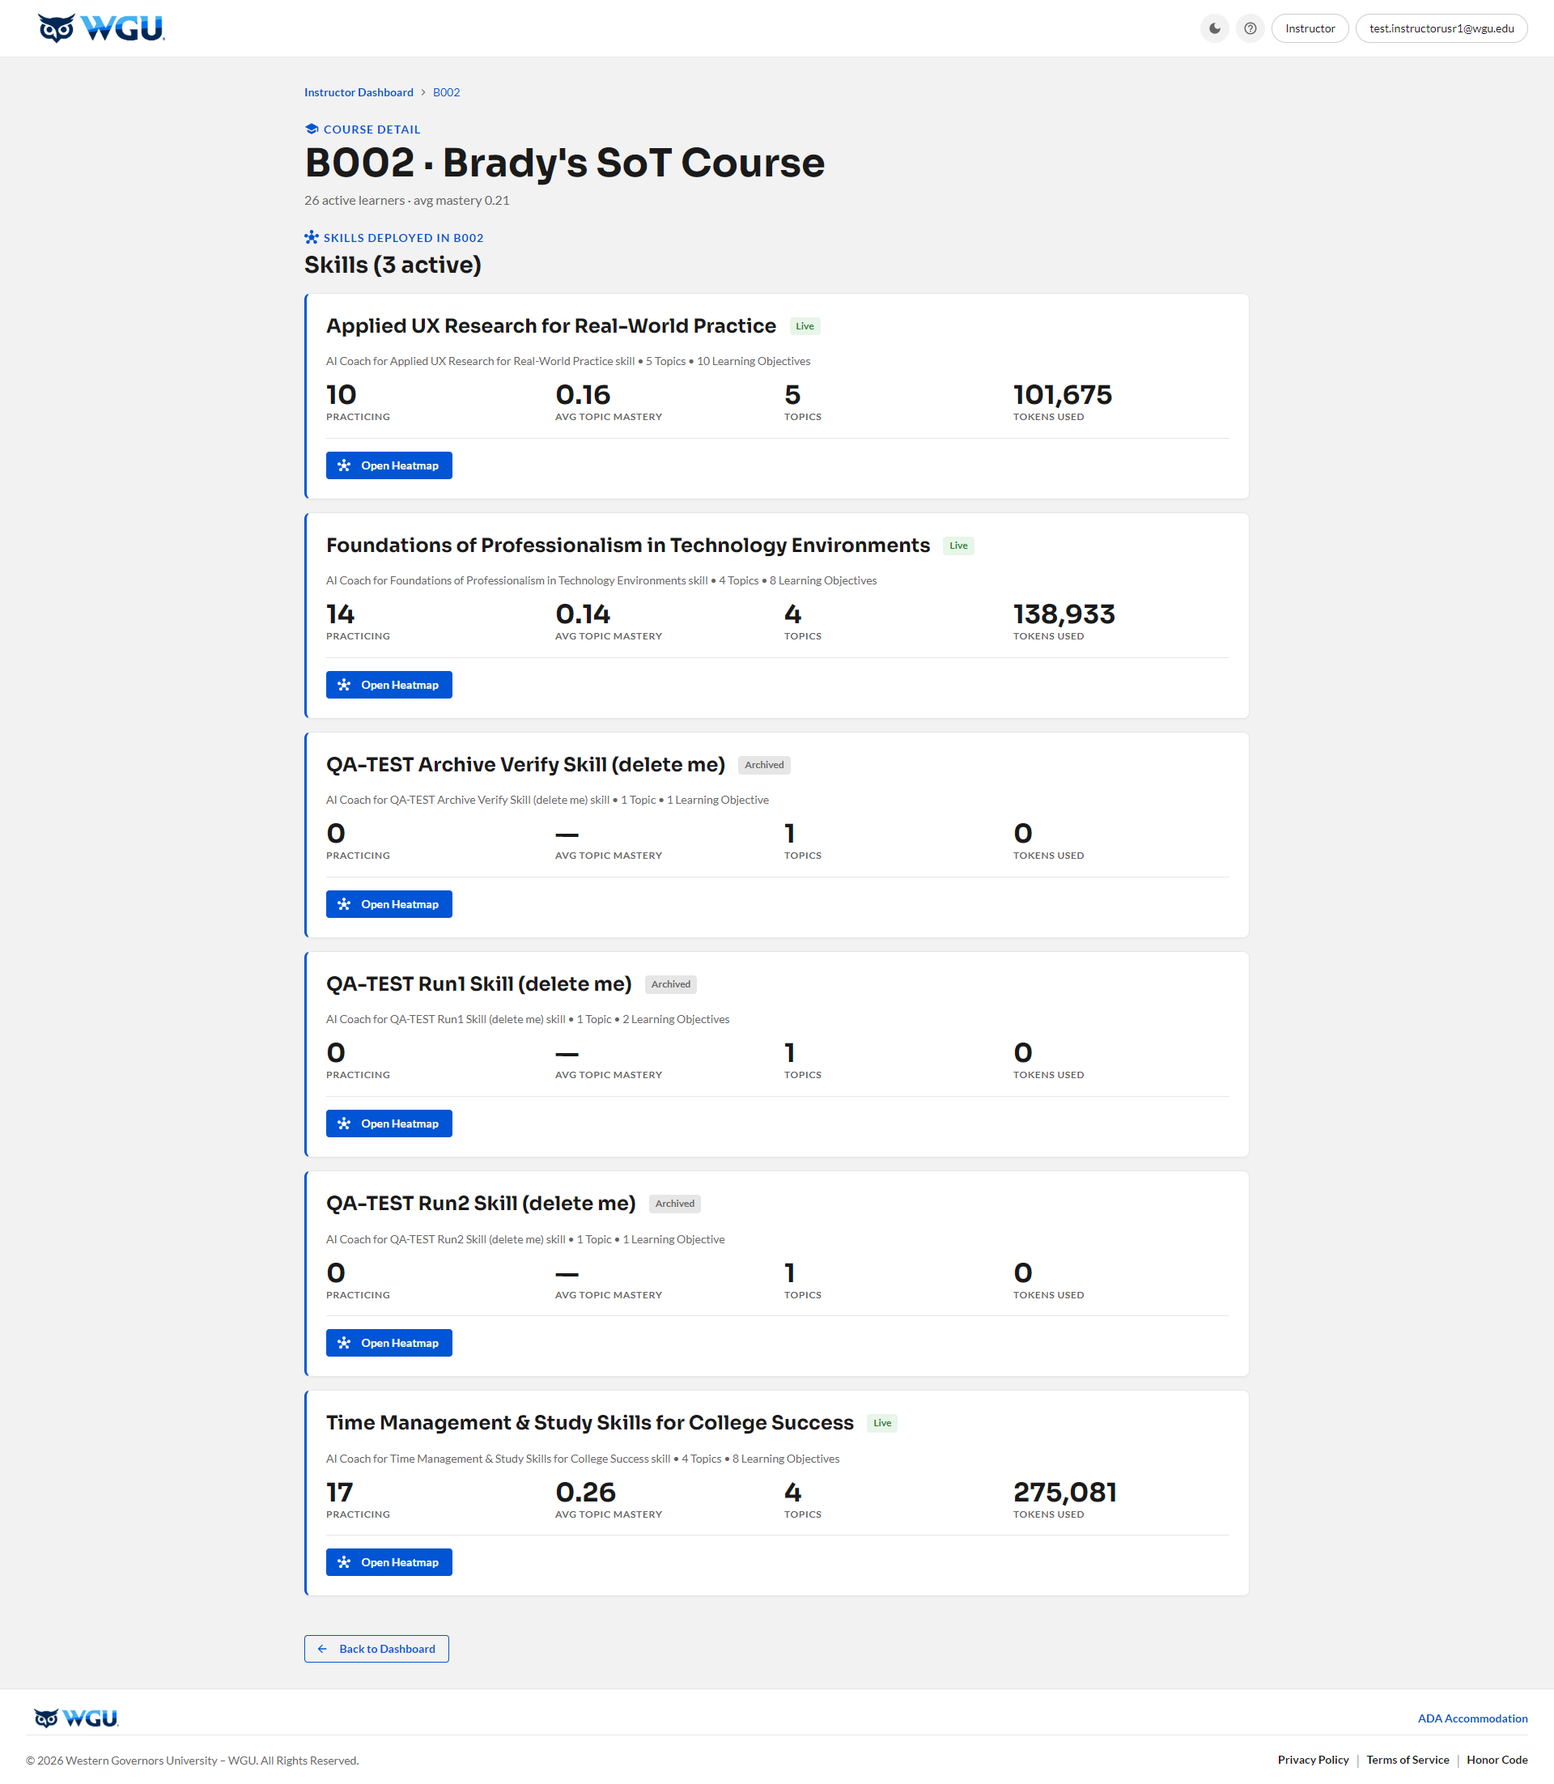
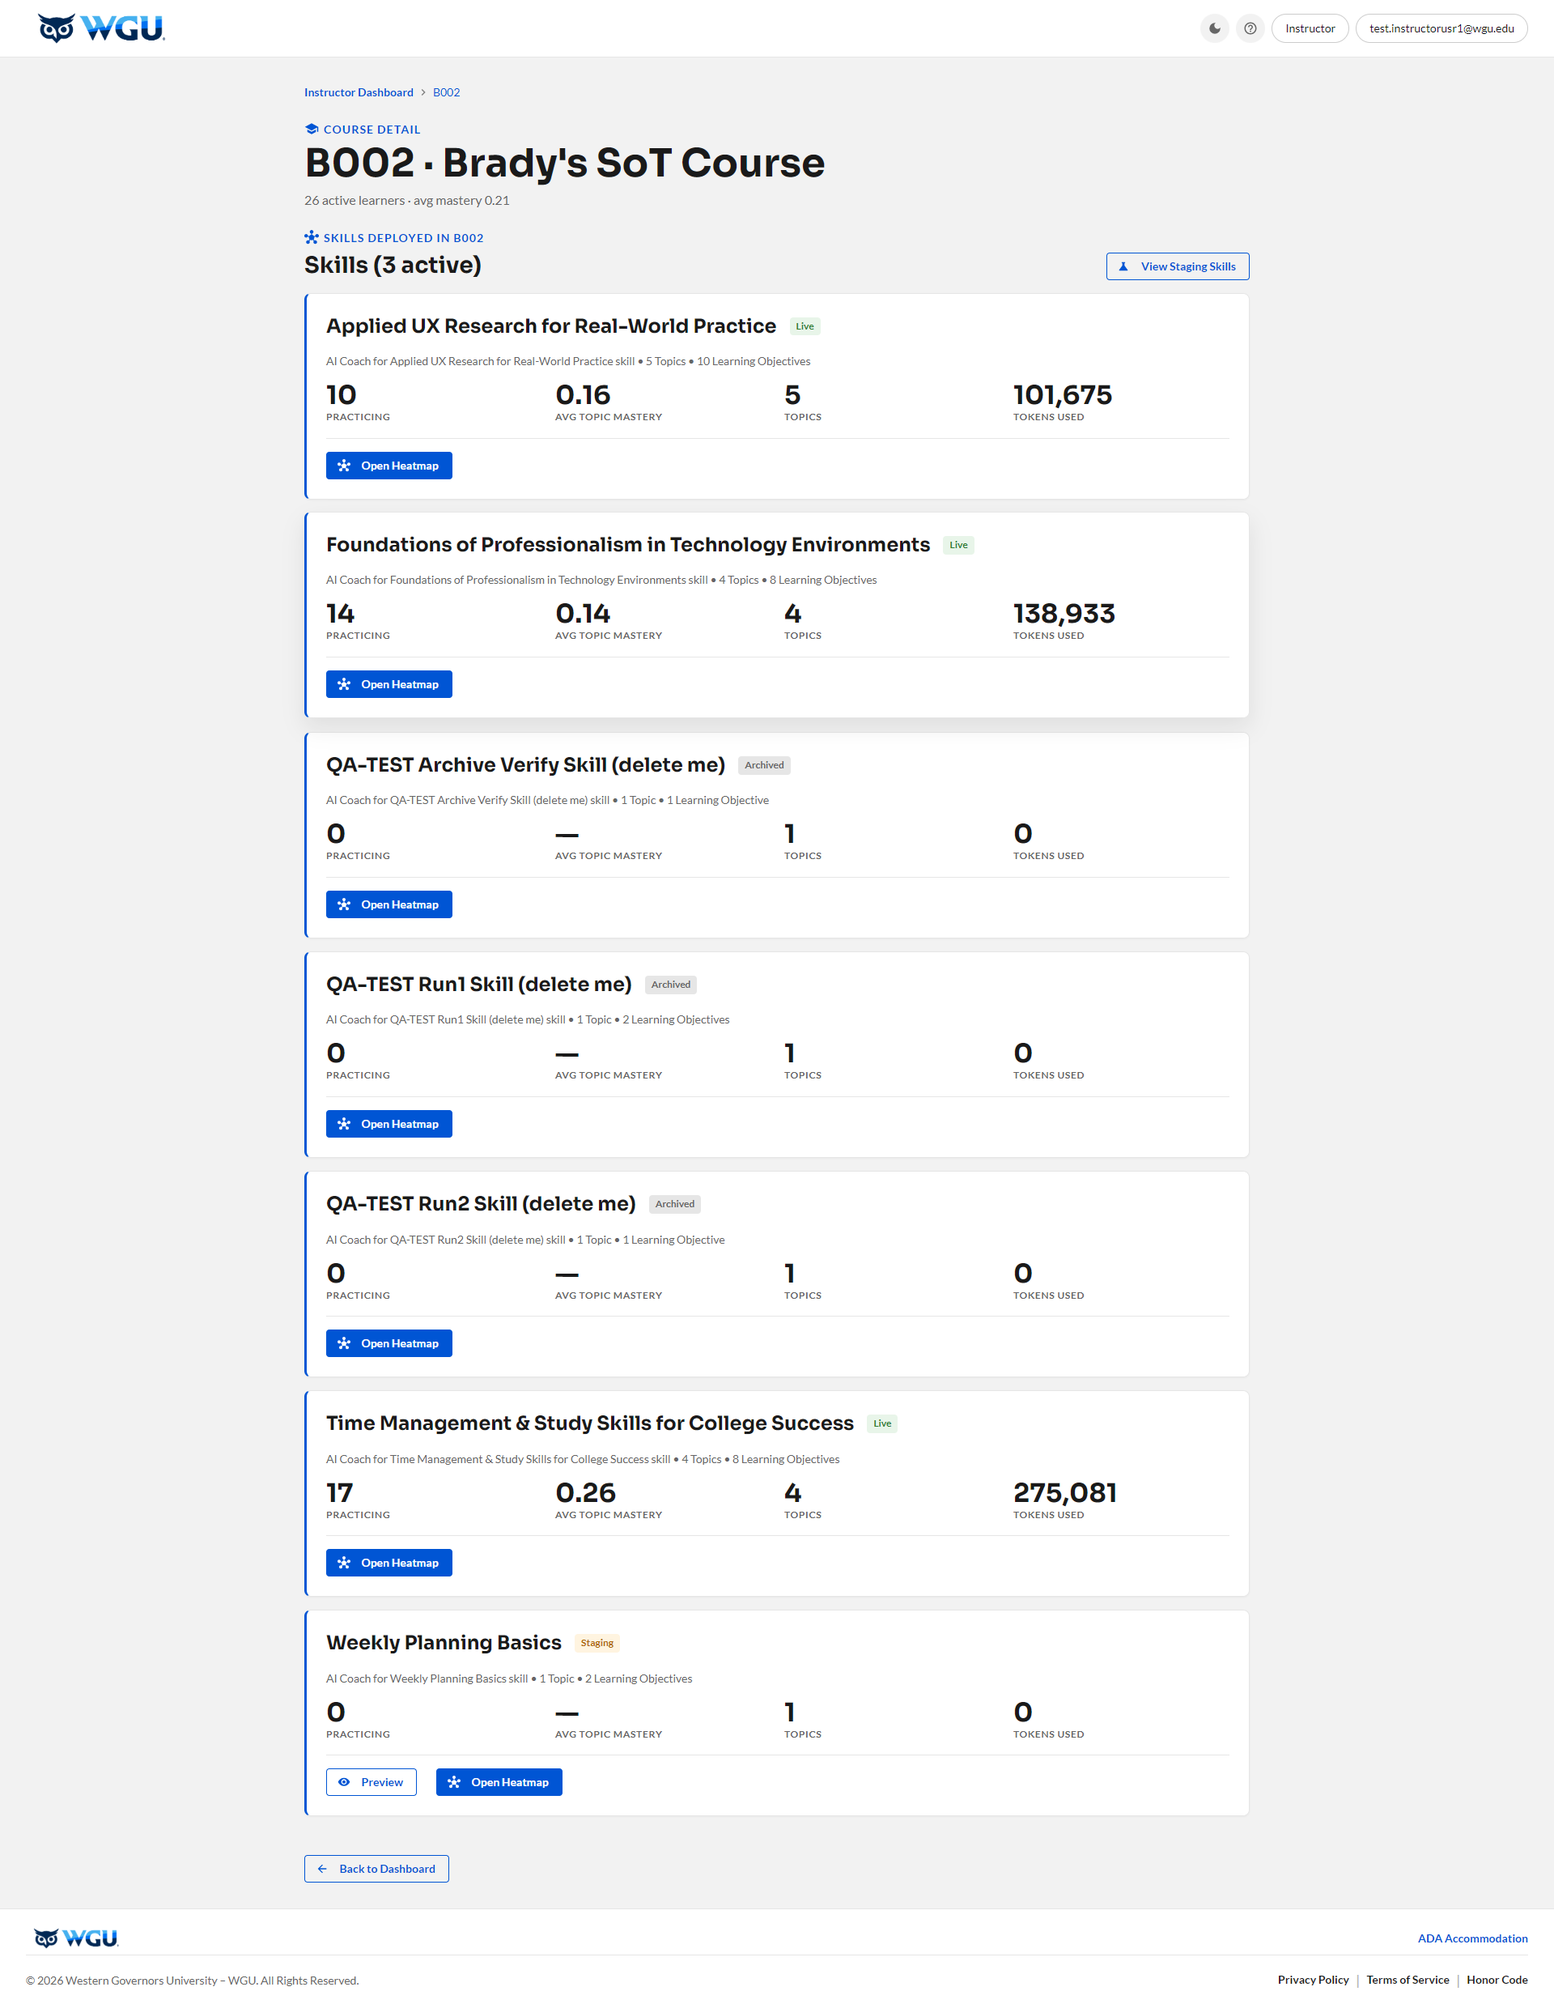
Add the Instructor Skill Preview AI loop
Created a staging Skill in B002 so the preview flow has something to show:
School Admin > New Skill wizard > Deploy to Staging -> "Weekly Planning Basics"
(STU101-PREV), skill 57769bc8-befa-403c-aa5a-a7463543f76d, 1 topic / 2 learning
objectives / gpt-4o-mini. Staging is deliberate -- students cannot launch a
staging Skill, and only staging Skills appear in the instructor Preview list.

Instructor is now 8 screens: + Staging Skills list, + Skill Preview AI-generated
question, + Skill Preview AI evaluation. The evaluation grades against exactly
the two Learning Objectives typed into wizard step 2 (scored 0.0 and 1.0 with
per-objective feedback), which shows the authoring config actually reaching the
model. The screen also carries "Preview only -- no data is saved".

This completes the AI loop on all three sides: student assessment, student
coaching, and staff-side authoring preview. The 11 Aug site map had recorded this
grading step as unverified because the Claude-browser permission classifier
blocked the submit.

Screens 6-7 navigate straight to the preview URL instead of clicking through.
Resolving the click by the text "Preview" never reached the screen -- the page
heading is also "Preview skills before they go live" and there are three
identical Preview buttons -- while direct navigation renders in ~3s and
regenerates the question, since the preview persists nothing. Screen 5's hotspot
still points at the real Preview button, so the click-through story is intact.
[…]

diff --git a/instructor/index.html b/instructor/index.html
@@ -137,7 +137,7 @@
     <h2 id="s1-heading" class="screen-heading visually-hidden" tabindex="-1">Screen 1 — Dashboard — 4 courses, learners needing attention</h2>
     <div class="shot">
       <div class="shot-inner">
-        <img src="screenshots/screen-01.png?v=5" alt="Instructor: Dashboard — 4 courses, learners needing attention">
+        <img src="screenshots/screen-01.png?v=6" alt="Instructor: Dashboard — 4 courses, learners needing attention">
         <button class="hotspot" style="left:50.42%;top:15.77%;width:30%;height:13.74%;" aria-label="Open course B002" onclick="goToScreen(2)"></button>
       </div>
     </div>
@@ -146,9 +146,9 @@
     <h2 id="s2-heading" class="screen-heading visually-hidden" tabindex="-1">Screen 2 — Course detail — B002</h2>
     <div class="shot">
       <div class="shot-inner">
-        <img src="screenshots/screen-02.png?v=5" alt="Instructor: Course detail — B002">
-        <button class="hotspot" style="left:20.99%;top:86.81%;width:8.1%;height:1.54%;" aria-label="Open the STU101 skill heatmap" onclick="goToScreen(3)"></button>
-        <button class="hotspot" style="left:19.58%;top:91.66%;width:9.32%;height:1.54%;" aria-label="Back to Dashboard" onclick="goToScreen(1)"></button>
+        <img src="screenshots/screen-02.png?v=6" alt="Instructor: Course detail — B002">
+        <button class="hotspot" style="left:20.99%;top:77.3%;width:8.1%;height:1.37%;" aria-label="Open the STU101 skill heatmap" onclick="goToScreen(3)"></button>
+        <button class="hotspot" style="left:19.58%;top:92.58%;width:9.32%;height:1.37%;" aria-label="Back to Dashboard" onclick="goToScreen(1)"></button>
       </div>
     </div>
   </section>
@@ -156,7 +156,7 @@
     <h2 id="s3-heading" class="screen-heading visually-hidden" tabindex="-1">Screen 3 — Skill heatmap — STU101, 17 learners</h2>
     <div class="shot">
       <div class="shot-inner">
-        <img src="screenshots/screen-03.png?v=5" alt="Instructor: Skill heatmap — STU101, 17 learners">
+        <img src="screenshots/screen-03.png?v=6" alt="Instructor: Skill heatmap — STU101, 17 learners">
         <button class="hotspot" style="left:21.51%;top:35.65%;width:5.99%;height:1.93%;" aria-label="Open a learner profile" onclick="goToScreen(4)"></button>
         <button class="hotspot" style="left:19.58%;top:88.08%;width:9.75%;height:2.2%;" aria-label="Back to Course view" onclick="goToScreen(2)"></button>
       </div>
@@ -166,16 +166,44 @@
     <h2 id="s4-heading" class="screen-heading visually-hidden" tabindex="-1">Screen 4 — Learner profile — per-topic mastery</h2>
     <div class="shot">
       <div class="shot-inner">
-        <img src="screenshots/screen-04.png?v=5" alt="Instructor: Learner profile — per-topic mastery">
+        <img src="screenshots/screen-04.png?v=6" alt="Instructor: Learner profile — per-topic mastery">
         <button class="hotspot" style="left:71.67%;top:79.19%;width:8.75%;height:3.15%;" aria-label="Back to Heatmap" onclick="goToScreen(3)"></button>
       </div>
     </div>
   </section>
   <section class="screen" id="screen-5" aria-labelledby="s5-heading">
-    <h2 id="s5-heading" class="screen-heading visually-hidden" tabindex="-1">Screen 5 — Help &amp; Support</h2>
+    <h2 id="s5-heading" class="screen-heading visually-hidden" tabindex="-1">Screen 5 — Staging Skills — preview before go-live</h2>
     <div class="shot">
       <div class="shot-inner">
-        <img src="screenshots/screen-05.png?v=5" alt="Instructor: Help &amp; Support">
+        <img src="screenshots/screen-05.png?v=6" alt="Instructor: Staging Skills — preview before go-live">
+        <button class="hotspot" style="left:73.57%;top:30.58%;width:5.13%;height:4.07%;" aria-label="Preview the B002 staging Skill" onclick="goToScreen(6)"></button>
+        <button class="hotspot" style="left:19.58%;top:10.28%;width:7.42%;height:2.02%;" aria-label="Back to Dashboard" onclick="goToScreen(1)"></button>
+      </div>
+    </div>
+  </section>
+  <section class="screen" id="screen-6" aria-labelledby="s6-heading">
+    <h2 id="s6-heading" class="screen-heading visually-hidden" tabindex="-1">Screen 6 — Skill Preview — AI-generated question</h2>
+    <div class="shot">
+      <div class="shot-inner">
+        <img src="screenshots/screen-06.png?v=6" alt="Instructor: Skill Preview — AI-generated question">
+        <button class="hotspot" style="left:25%;top:71.31%;width:10.35%;height:3.7%;" aria-label="Submit the answer for AI evaluation" onclick="goToScreen(7)"></button>
+      </div>
+    </div>
+  </section>
+  <section class="screen" id="screen-7" aria-labelledby="s7-heading">
+    <h2 id="s7-heading" class="screen-heading visually-hidden" tabindex="-1">Screen 7 — Skill Preview — AI evaluation</h2>
+    <div class="shot">
+      <div class="shot-inner">
+        <img src="screenshots/screen-07.png?v=6" alt="Instructor: Skill Preview — AI evaluation">
+        <button class="hotspot" style="left:89.6%;top:88.02%;width:8.74%;height:2.33%;" aria-label="Finish the preview" onclick="goToScreen(5)"></button>
+      </div>
+    </div>
+  </section>
+  <section class="screen" id="screen-8" aria-labelledby="s8-heading">
+    <h2 id="s8-heading" class="screen-heading visually-hidden" tabindex="-1">Screen 8 — Help &amp; Support</h2>
+    <div class="shot">
+      <div class="shot-inner">
+        <img src="screenshots/screen-08.png?v=6" alt="Instructor: Help &amp; Support">
         <button class="hotspot" style="left:28.24%;top:83.62%;width:4.58%;height:3.19%;" aria-label="Back to Dashboard" onclick="goToScreen(1)"></button>
       </div>
     </div>
@@ -206,13 +234,16 @@
       <button class="step-btn" data-goto="2" role="tab" aria-current="false">02 Course detail — B002</button>
       <button class="step-btn" data-goto="3" role="tab" aria-current="false">03 Skill heatmap — STU101, 17 learners</button>
       <button class="step-btn" data-goto="4" role="tab" aria-current="false">04 Learner profile — per-topic mastery</button>
-      <button class="step-btn" data-goto="5" role="tab" aria-current="false">05 Help &amp; Support</button>
+      <button class="step-btn" data-goto="5" role="tab" aria-current="false">05 Staging Skills — preview before go-live</button>
+      <button class="step-btn" data-goto="6" role="tab" aria-current="false">06 Skill Preview — AI-generated question</button>
+      <button class="step-btn" data-goto="7" role="tab" aria-current="false">07 Skill Preview — AI evaluation</button>
+      <button class="step-btn" data-goto="8" role="tab" aria-current="false">08 Help &amp; Support</button>
     </div>
   </nav>
 
   <script>
   (function () {
-    var TOTAL = 5;
+    var TOTAL = 8;
 
     window.goToScreen = function (n) {
       if (n < 1 || n > TOTAL) return;

diff --git a/README.md b/README.md
@@ -6,7 +6,7 @@
 
 [![Live Demo](https://img.shields.io/badge/Live-GitHub_Pages-0070F0?style=for-the-badge&logo=github)](https://brady-wgu.github.io/SkillProof/)
 [![Version](https://img.shields.io/badge/Version-4.167-46B1EF?style=for-the-badge)](CHANGELOG.md)
-[![Live Screens](https://img.shields.io/badge/Live_Demo_Screens-29-001730?style=for-the-badge)]()
+[![Live Screens](https://img.shields.io/badge/Live_Demo_Screens-32-001730?style=for-the-badge)]()
 [![Personas](https://img.shields.io/badge/Personas-4-FBAE40?style=for-the-badge)]()
 
 ![Portal selector landing](assets/landing/light.png)
@@ -43,22 +43,22 @@ Each persona has its own **secret LRPS deep link** in production and authenticat
 |:--------|:----|:------------|
 | **LRPS Landing** (storyboard root) | [`/`](https://brady-wgu.github.io/SkillProof/) | Entry point — table segmented into **Student Skills** (33, incl. 1 broken DEV, 24 E010/D522 skill-level links, and 1 broken skill-level link), **Staff Links** (6, incl. 3 broken DEV), and **Live-App Walkthroughs** (4). **Start here.** **v4.166:** added 24 skill-level LRPS links (10 for E010, 14 for D522) from the 16 Jul 2026 link-list update; flagged D522-13 as broken per LOG-033/034 (a post-deploy rename orphaned its LRPS link). **v4.165:** pagination removed — this is a single real, complete page now, not a sample of a huge simulated dataset. **v4.164:** all decorative filler rows removed; every real link from the SkillProof link tracker now represented, including broken DEV entries. **v4.163:** STU101 added. **v4.162:** segmented into 3 sections. **v4.161:** live skill rows added. **v4.59:** promoted to root. |
 | **Student walkthrough** | [`/student/`](https://brady-wgu.github.io/SkillProof/student/) | Live-app screenshots (STU101 · Time Management): course landing → **AI diagnostic question → AI evaluation** → diagnostic results → Progress Map → **AI coaching prompt → AI coaching feedback** → Help & Support. **8 screens.** Archived mockup: [`_archive/student/`](_archive/student/) (18 screens). |
-| **Instructor walkthrough** | [`/instructor/`](https://brady-wgu.github.io/SkillProof/instructor/) | Live-app screenshots (B002 · STU101): Dashboard (4 courses, 68 learners needing attention) → Course Detail → Skill heatmap (17 learners) → Learner profile → Help. **5 screens.** Archived mockup: [`_archive/instructor/`](_archive/instructor/) (5 screens). |
+| **Instructor walkthrough** | [`/instructor/`](https://brady-wgu.github.io/SkillProof/instructor/) | Live-app screenshots (B002 · STU101): Dashboard (4 courses, 68 learners needing attention) → Course Detail → Skill heatmap (17 learners) → Learner profile → Staging Skills → **Skill Preview AI question → AI evaluation** → Help. **8 screens.** Archived mockup: [`_archive/instructor/`](_archive/instructor/) (5 screens). |
 | **School Admin walkthrough** | [`/tenant_admin/`](https://brady-wgu.github.io/SkillProof/tenant_admin/) | Live-app screenshots (B002 · STU101): Dashboard → Course Detail → Skill heatmap (17 learners) → Learner profile → Analytics → **New Skill wizard steps 1-3, incl. Model & AI prompt** → Tenant Settings → Help. **10 screens.** Archived mockup: [`_archive/tenant_admin/`](_archive/tenant_admin/) (12 screens). |
 | **Super Admin walkthrough** | [`/super_admin/`](https://brady-wgu.github.io/SkillProof/super_admin/) | Live-app screenshots: Dashboard → Analytics → Access Control → School Management → Course Detail (B002) → Help. **6 screens.** Archived mockup: [`_archive/super_admin/`](_archive/super_admin/) (11 screens). |
 | **Help & Resources** (shared) | [`/help/`](https://brady-wgu.github.io/SkillProof/help/) | Shared self-service support, documentation, and video training surface. Linked from every admin portal navbar. Closes Appendix A §16.4 #9.14 (self-service portal) and #9.15 (video training). |
 
-**Live-app click-through demo: 29 screens · 35 hotspots · 4 personas** (Student 8 · Instructor 5 · School Admin 10 · Super Admin 6), all four on **STU101 / course B002**. Every screen fills the full browser width and scrolls **inside** its own frame, so a 1,080px dashboard and a 6,100px analytics rollup present as the same shape. Hotspots are real clickable regions measured off the live DOM, so a whole role can be walked without logging in. The meta-bar switches roles, which is the point: one link replaces signing into four accounts to show the product. *(The archived mockups in `_archive/` hold the prior 46-screen hand-built set.)*
+**Live-app click-through demo: 32 screens · 39 hotspots · 4 personas** (Student 8 · Instructor 8 · School Admin 10 · Super Admin 6), all four on **STU101 / course B002**. Every screen fills the full browser width and scrolls **inside** its own frame, so a 1,080px dashboard and a 6,100px analytics rollup present as the same shape. Hotspots are real clickable regions measured off the live DOM, so a whole role can be walked without logging in. The meta-bar switches roles, which is the point: one link replaces signing into four accounts to show the product. *(The archived mockups in `_archive/` hold the prior 46-screen hand-built set.)*
 
-**The AI interaction loop is included on both sides**, which is the reason the platform exists: the student diagnostic shows an AI-generated assessment prompt and the model's per-objective scoring, and the coaching task shows an AI coaching prompt and its evaluation table. School Admin step 3 of the New Skill wizard shows the model choice, fallback chain, and compiled system prompt.
+**The AI interaction loop is included on both sides**, which is the reason the platform exists: the student diagnostic shows an AI-generated assessment prompt and the model's per-objective scoring, and the coaching task shows an AI coaching prompt and its evaluation table. The Instructor **Skill Preview** shows the same loop from the staff side — an AI-generated question against a staging Skill, and the model's evaluation of a submitted answer, marked "Preview only — no data is saved". School Admin step 3 of the New Skill wizard shows the model choice, fallback chain, and compiled system prompt, and the preview grades against exactly the Learning Objectives entered in step 2.
 
 Captures and hotspots are generated by `skillproof-qa-tools/demo-capture.js` (captures at 1920 wide; every PNG's width is asserted at build time) and verified by `verify-demo.js`, which clicks every hotspot and confirms it lands on the screen it claims. `flow.json` is script output, so re-run the capture rather than hand-editing it.
 
-**Known gaps**
+**Notes**
 
-- **No Skill Preview screen.** `/instructor/staging-skills/:id/preview` is the instructor-side AI screen, but it needs a **staging** skill and B002 holds only Production(3) + Archived(3). The only staging skills on the account are two `qa-wj80` seeds under A101. Adding this screen means deploying a staging skill into B002.
-- **STAGE seed debris is visible** on several admin screens: archived skills named `QA-TEST … (delete me)` appear on the B002 course detail, and the New Skill wizard's Course dropdown lists `QA-C1 · QA-TEST Run1 Course EDITED (delete me)`, `ZZUAT08 · ZZ-UAT-20260807-Course-Edited`, and typo'd names like `Object Oriented Systemsssss`. Cleaning these means renaming or archiving records other testers may be using.
 - **Student surnames are masked**; first names and all staff names are left visible, per the 12 AUG 2026 decision.
+- **STAGE test data and "test" labels are expected** and left as-is — this is a beta test tenant, not a cleanup target.
+- The Instructor Skill Preview runs against **`STU101-PREV · Weekly Planning Basics`**, a staging Skill created in B002 on 13 AUG 2026 for this purpose. Staging means students cannot launch it, and only staging Skills appear in the instructor Preview list.
 
 ---
 
@@ -153,7 +153,7 @@ SkillProof/
 │   ├── index.html              ← generated by build_prototypes.py
 │   ├── flow.json               screens + hotspot wiring (SCRIPT OUTPUT of demo-capture.js)
 │   └── screenshots/            4 PNGs (live-app captures)
-├── instructor/                 Live-app walkthrough — B002/STU101 (5 screens)
+├── instructor/                 Live-app walkthrough — B002/STU101, incl. Skill Preview AI loop (8 screens)
 │   ├── index.html
 │   ├── flow.json
 │   └── screenshots/            5 PNGs
